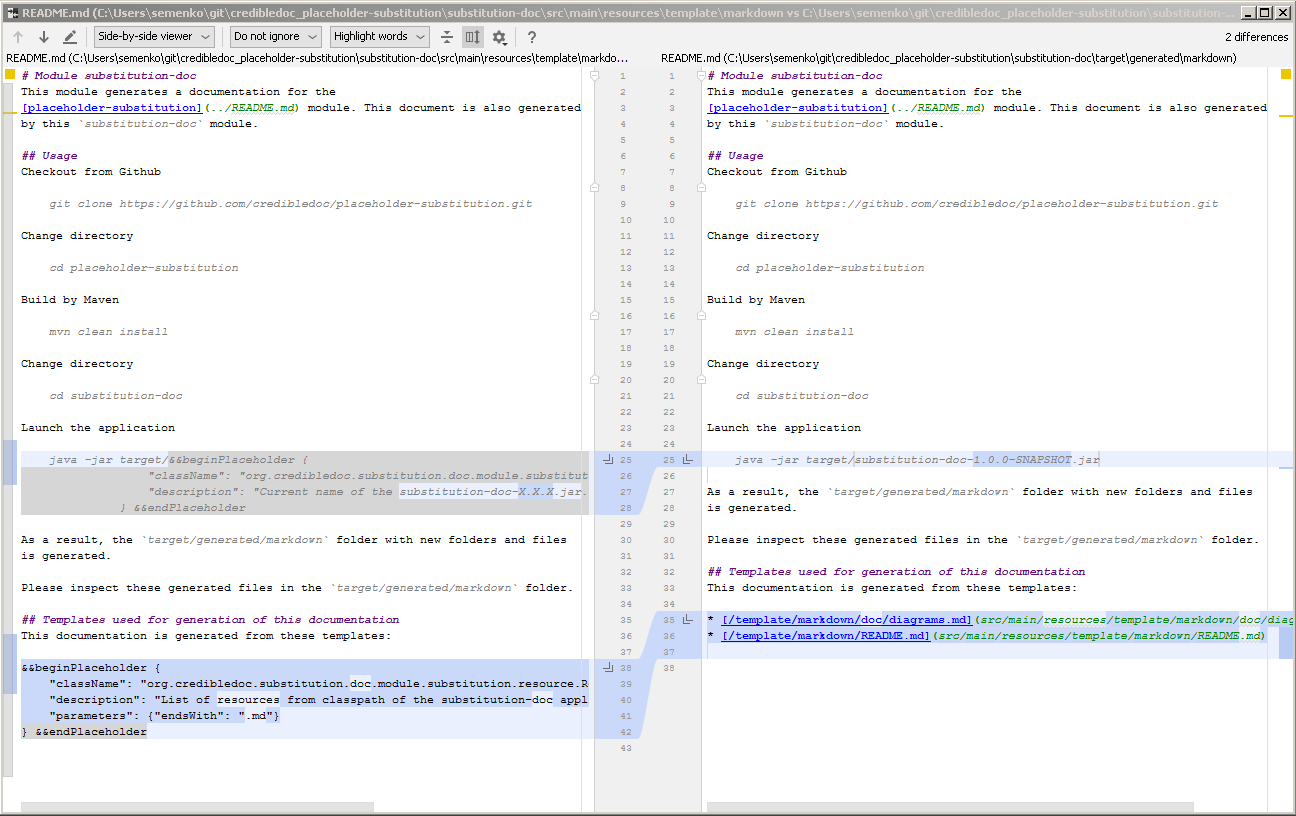
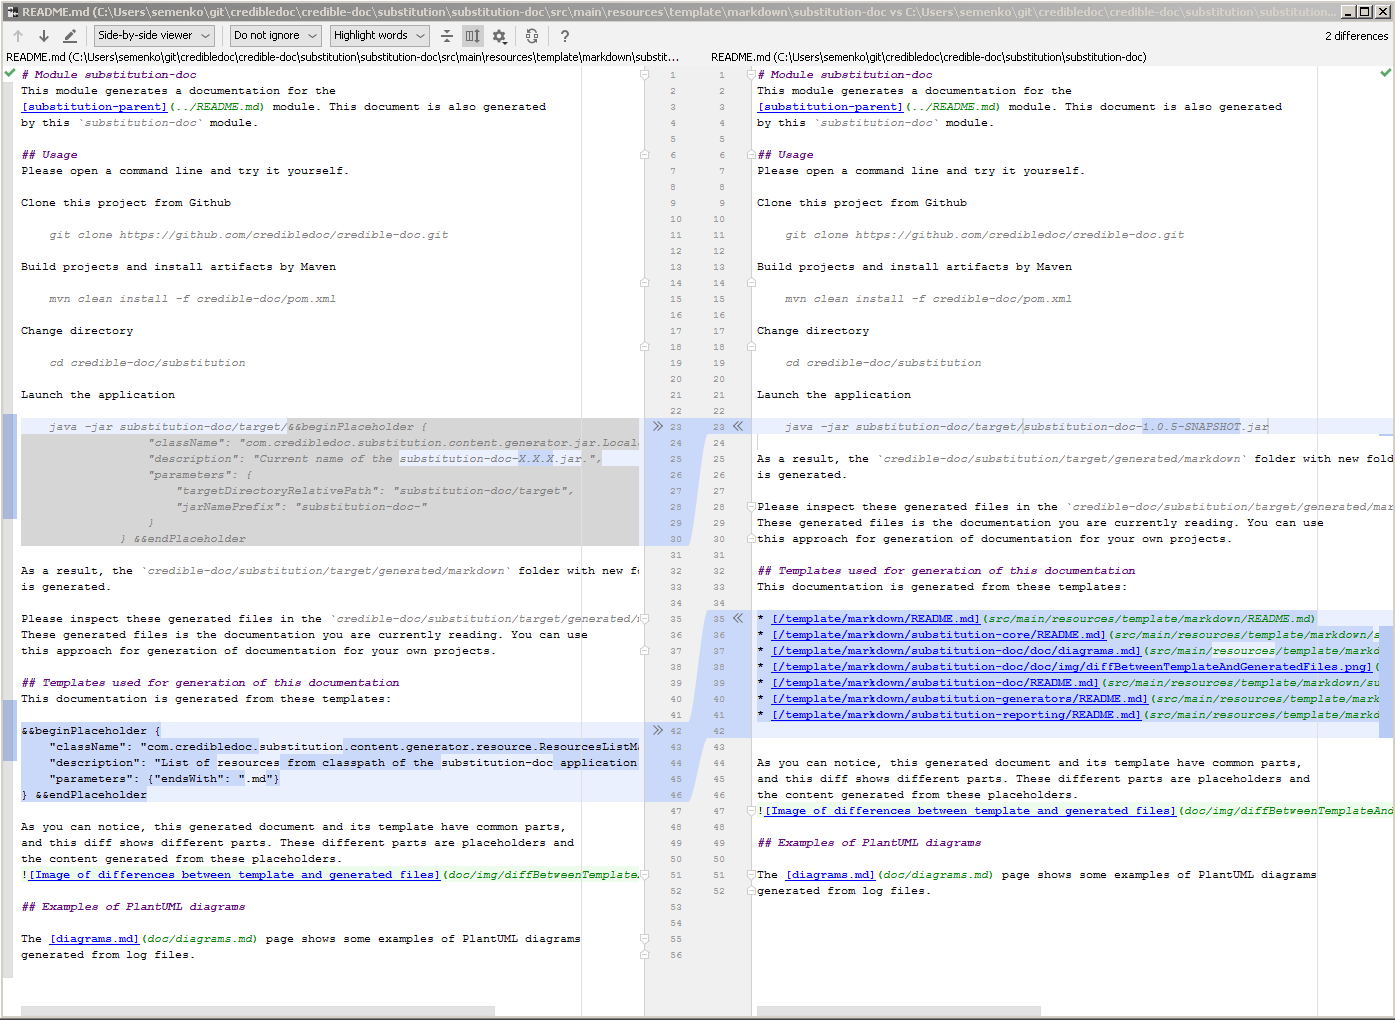
Updated static images

diff --git a/log-combiner-parent/log-combiner-doc/README.md b/log-combiner-parent/log-combiner-doc/README.md
@@ -6,7 +6,7 @@ This document is also generated by this `log-combiner-doc` module.
 ## Usage
 Please open a command line and try the next commands in a temporary folder.
 
-Clone these projects from Github
+Clone this repository from Github
 
     git clone https://github.com/credibledoc/credible-doc.git
     
@@ -22,10 +22,10 @@ Launch the application
 
     java -jar log-combiner-doc/target/log-combiner-doc-1.0.5-SNAPSHOT.jar
 
-As a result, the `log-combiner/target/generated/doc` folder with new folders and files
+As a result, the `credible-doc/log-combiner-parent/target/generated/doc` folder with new folders and files
 is generated.
 
-Please inspect these generated files in the `log-combiner/target/generated/doc` folder.
+Please inspect these generated files in the `credible-doc/log-combiner-parent/target/generated/doc` folder.
 These generated files is the documentation you currently reading. You can use
 this approach for generation of documentation for your own projects.
 

diff --git a/log-combiner-parent/log-combiner-doc/src/main/resources/template/markdown/doc/log-combiner-doc/README.md b/log-combiner-parent/log-combiner-doc/src/main/resources/template/markdown/doc/log-combiner-doc/README.md
@@ -6,7 +6,7 @@ This document is also generated by this `log-combiner-doc` module.
 ## Usage
 Please open a command line and try the next commands in a temporary folder.
 
-Clone these projects from Github
+Clone this repository from Github
 
     git clone https://github.com/credibledoc/credible-doc.git
     
@@ -29,10 +29,10 @@ Launch the application
                   }
        } &&endPlaceholder
 
-As a result, the `log-combiner/target/generated/doc` folder with new folders and files
+As a result, the `credible-doc/log-combiner-parent/target/generated/doc` folder with new folders and files
 is generated.
 
-Please inspect these generated files in the `log-combiner/target/generated/doc` folder.
+Please inspect these generated files in the `credible-doc/log-combiner-parent/target/generated/doc` folder.
 These generated files is the documentation you currently reading. You can use
 this approach for generation of documentation for your own projects.
 

diff --git a/substitution/substitution-doc/README.md b/substitution/substitution-doc/README.md
@@ -22,10 +22,10 @@ Launch the application
 
     java -jar substitution-doc/target/substitution-doc-1.0.5-SNAPSHOT.jar
 
-As a result, the `substitution/target/generated/markdown` folder with new folders and files
+As a result, the `credible-doc/substitution/target/generated/markdown` folder with new folders and files
 is generated.
 
-Please inspect these generated files in the `substitution/target/generated/markdown` folder.
+Please inspect these generated files in the `credible-doc/substitution/target/generated/markdown` folder.
 These generated files is the documentation you are currently reading. You can use
 this approach for generation of documentation for your own projects.
 

diff --git a/substitution/substitution-doc/src/main/resources/template/markdown/substitution-doc/README.md b/substitution/substitution-doc/src/main/resources/template/markdown/substitution-doc/README.md
@@ -29,10 +29,10 @@ Launch the application
                   }
               } &&endPlaceholder
 
-As a result, the `substitution/target/generated/markdown` folder with new folders and files
+As a result, the `credible-doc/substitution/target/generated/markdown` folder with new folders and files
 is generated.
 
-Please inspect these generated files in the `substitution/target/generated/markdown` folder.
+Please inspect these generated files in the `credible-doc/substitution/target/generated/markdown` folder.
 These generated files is the documentation you are currently reading. You can use
 this approach for generation of documentation for your own projects.
 

diff --git a/doc/release.md b/doc/release.md
@@ -78,6 +78,7 @@
     ```bash
     git push
     ```
+## Generate documentation
 
 ## Rollback the tag in case of a mistake
 
